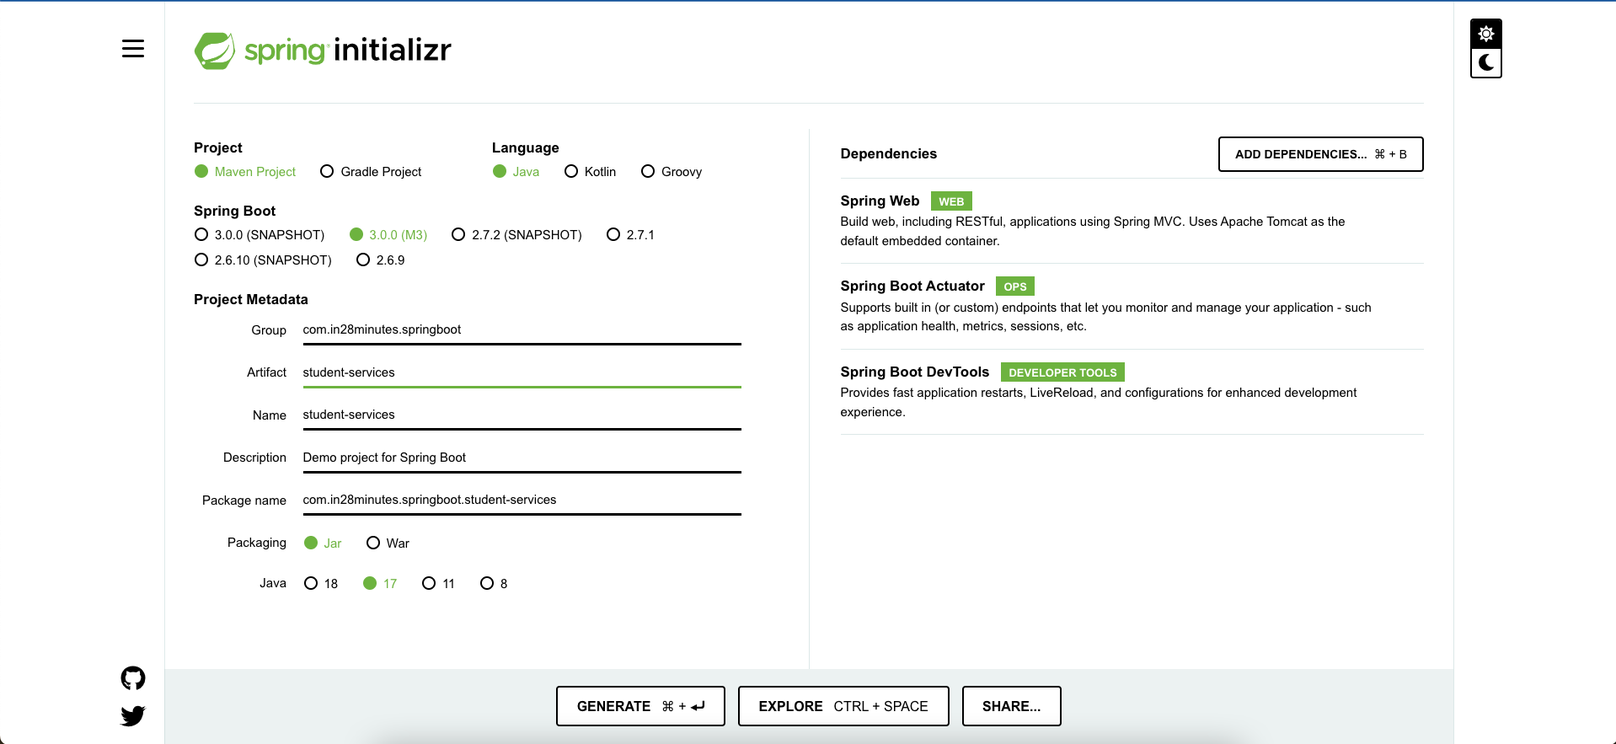
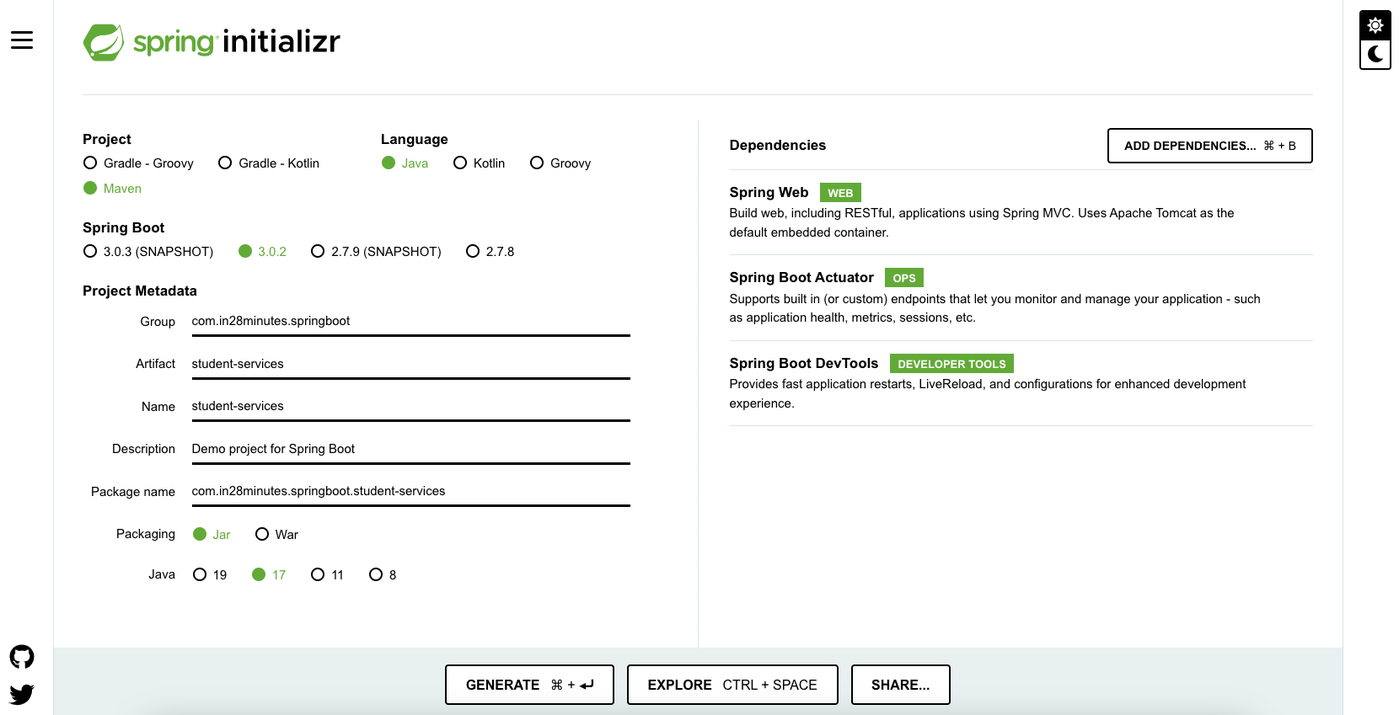
Updated to Spring Boot 3 latest

diff --git a/_blog/articles/2017-01-21-spring-initializr-web-application.md b/_blog/articles/2017-01-21-spring-initializr-web-application.md
@@ -1,8 +1,8 @@
 ---
 layout: post
 title: Spring Initializr - Bootstrap Your Spring Boot Applications at F1 speed!
-date: 2022-07-09 06:14:13
-summary: Learn what is Spring Initializr and understand how to Bootstrap a Spring Boot Web Application quickly.
+date: 2023-02-17 06:14:13
+summary: Discover what Spring Initializr is and how to rapidly Bootstrap a Spring Boot Web Application.
 categories: SpringBoot
 permalink: /spring-initialzr-bootstrap-spring-boot-applications
 image: /images/spring-boot-category.png
@@ -14,13 +14,13 @@ Spring Initializr [http://start.spring.io/](http://start.spring.io/){:target="\_
 
 ![Image](/images/Spring-Initializr-Web-ApplicationStructure.png 'Spring Initializr Web Application - Folder Structure')
 
-It allows you to create varied range of Spring Boot based Applications from a very simple UI. Some of the types of applications you can bootstrap are:
+It enables you to construct a wide range of Spring Boot-based applications using a very basic user interface. You may bootstrap the following applications:
 
 - Web Applications
 - Restful Applications
 - Batch Applications
 
-Spring Boot provides a wide range of starter projects. Spring Initializr supports all of them and more. Among a varied range of starter projects and options supported are:
+Spring Boot offers a diverse set of beginning projects. Spring Initializr is compatible with all of them and more. Among the several initial projects and choices available are:
 
 - spring-boot-starter-web-services : For building applications exposing SOAP Web Services
 - spring-boot-starter-web - Build Web applications & RESTful applications
@@ -36,7 +36,7 @@ In this guide, lets consider creating a simple web application with Spring Initi
 
 ## Bootstrapping a Web application with Spring Initializr
 
-Creating a Web application with Spring Initializr is very simple.
+It is quite simple to create a Web application with Spring Initializr.
 
 ![Image](/images/Spring-Initializr-Web.png 'Web, Actuator and Developer Tools')
 
@@ -50,18 +50,18 @@ As shown in the image above, following steps have to be done
 - Click Generate Project button at the bottom of the page.
 - Import the project into Eclipse or IntelliJ
 
-## Structure of the project created
+## The project's structure was established.
 
-Screenshot shows the project structure of the imported maven project.
+The imported maven project's project structure is shown in the screenshot.
 
 ![Image](/images/Spring-Initializr-Web-ApplicationStructure.png 'Spring Initializr Web Application - Folder Structure')
 
-- StudentServicesApplication.java - Spring Boot Launcher. Initializes Spring Boot Auto Configuration and Spring Application Context.
+- StudentServicesApplication.java - Launcher for Spring Boot. Spring Boot Auto Configuration and Spring Application Context are both initialised.
 - application.properties - Application Configuration file.
 - StudentServicesApplicationTests.java - Simple launcher for use in unit tests.
-- pom.xml - Included dependencies for Spring Boot Starter Web, Actuator, DevTools. Uses Spring Boot Starter Parent as parent pom.
+- pom.xml - Spring Boot Starter Web, Actuator, and DevTools requirements are included. Spring Boot Starting Parent is used as the parent pom.
 
-## Complete Code Generated
+## Completely Created Code
 
 Lets look at each of the file that is generated
 
@@ -93,7 +93,7 @@ Three important things that are configured in pom.xml.
 	<parent>
 		<groupId>org.springframework.boot</groupId>
 		<artifactId>spring-boot-starter-parent</artifactId>
-		<version>3.0.0-M3</version>
+		<version>3.0.2</version>
 		<relativePath /> <!-- lookup parent from repository -->
 	</parent>
 
@@ -161,8 +161,8 @@ Three important things that are configured in pom.xml.
 
 ### /src/main/java/com/in28minutes/springboot/StudentServicesApplication.java
 
-- `@SpringBootApplication` - Initializes Spring Boot Auto Configuration and Spring application context. Read more about Auto Configuration here - [http://www.springboottutorial.com/spring-boot-auto-configuration](http://www.springboottutorial.com/spring-boot-auto-configuration).
-- `SpringApplication.run` - Static method to launch a Spring Boot Application.
+- `@SpringBootApplication` - Spring Boot Auto Configuration and the Spring application context are both initialised. Further information about Auto Configuration may be found here - [http://www.springboottutorial.com/spring-boot-auto-configuration](http://www.springboottutorial.com/spring-boot-auto-configuration).
+- `SpringApplication.run` - Launch a Spring Boot application using a static method.
 
 ```java
 package com.in28minutes.springboot.studentservices;
@@ -191,7 +191,7 @@ public class StudentServicesApplication {
 
 ### /src/test/java/com/in28minutes/springboot/StudentServicesApplicationTests.java
 
-- Integration test launches the complete Spring Boot Application. Read more about integration tests here - [http://www.springboottutorial.com/integration-testing-for-spring-boot-rest-services](http://www.springboottutorial.com/integration-testing-for-spring-boot-rest-services).
+- The integration test starts the entire Spring Boot application. Further information on integration testing may be found here - [http://www.springboottutorial.com/integration-testing-for-spring-boot-rest-services](http://www.springboottutorial.com/integration-testing-for-spring-boot-rest-services).
 
 ```java
 package com.in28minutes.springboot.studentservices;
@@ -214,7 +214,7 @@ public class StudentServicesApplicationTests {
 
 ## Running the application
 
-Following log is generate when you run StudentServicesApplication.java as a Java Application.
+When you execute StudentServicesApplication.java as a Java application, the following log is generated.
 
 ```
 
@@ -224,19 +224,19 @@ Following log is generate when you run StudentServicesApplication.java as a Java
  \\/  ___)| |_)| | | | | || (_| |  ) ) ) )
   '  |____| .__|_| |_|_| |_\__, | / / / /
  =========|_|==============|___/=/_/_/_/
- :: Spring Boot ::             (v3.0.0-M3)
+ :: Spring Boot ::             (v3.0.2)
 
-2022-07-09T07:31:11.653+05:30  INFO 6649 --- [  restartedMain] c.i.s.s.StudentServicesApplication       : Starting StudentServicesApplication using Java 17.0.2 on Puneeths-MacBook-Pro.local with PID 6649 (/Users/puneethsai/devworkspace/student-services/target/classes started by puneethsai in /Users/puneethsai/devworkspace/student-services)
-2022-07-09T07:31:11.657+05:30  INFO 6649 --- [  restartedMain] c.i.s.s.StudentServicesApplication       : No active profile set, falling back to 1 default profile: "default"
-2022-07-09T07:31:11.718+05:30  INFO 6649 --- [  restartedMain] .e.DevToolsPropertyDefaultsPostProcessor : Devtools property defaults active! Set 'spring.devtools.add-properties' to 'false' to disable
-2022-07-09T07:31:11.718+05:30  INFO 6649 --- [  restartedMain] .e.DevToolsPropertyDefaultsPostProcessor : For additional web related logging consider setting the 'logging.level.web' property to 'DEBUG'
-2022-07-09T07:31:13.249+05:30  INFO 6649 --- [  restartedMain] o.s.b.w.embedded.tomcat.TomcatWebServer  : Tomcat initialized with port(s): 8080 (http)
-2022-07-09T07:31:13.263+05:30  INFO 6649 --- [  restartedMain] o.apache.catalina.core.StandardService   : Starting service [Tomcat]
-2022-07-09T07:31:13.263+05:30  INFO 6649 --- [  restartedMain] org.apache.catalina.core.StandardEngine  : Starting Servlet engine: [Apache Tomcat/10.0.21]
-2022-07-09T07:31:13.326+05:30  INFO 6649 --- [  restartedMain] o.a.c.c.C.[Tomcat].[localhost].[/]       : Initializing Spring embedded WebApplicationContext
-2022-07-09T07:31:13.329+05:30  INFO 6649 --- [  restartedMain] w.s.c.ServletWebServerApplicationContext : Root WebApplicationContext: initialization completed in 1607 ms
-2022-07-09T07:31:13.977+05:30  INFO 6649 --- [  restartedMain] o.s.b.d.a.OptionalLiveReloadServer       : LiveReload server is running on port 35729
-2022-07-09T07:31:13.984+05:30  INFO 6649 --- [  restartedMain] o.s.b.a.e.web.EndpointLinksResolver      : Exposing 1 endpoint(s) beneath base path '/actuator'
-2022-07-09T07:31:14.031+05:30  INFO 6649 --- [  restartedMain] o.s.b.w.embedded.tomcat.TomcatWebServer  : Tomcat started on port(s): 8080 (http) with context path ''
-2022-07-09T07:31:14.045+05:30  INFO 6649 --- [  restartedMain] c.i.s.s.StudentServicesApplication       : Started StudentServicesApplication in 3.168 seconds (process running for 4.02
+2023-02-18T07:31:11.653+05:30  INFO 6649 --- [  restartedMain] c.i.s.s.StudentServicesApplication       : Starting StudentServicesApplication using Java 17.0.2 on Puneeths-MacBook-Pro.local with PID 6649 (/Users/puneethsai/devworkspace/student-services/target/classes started by puneethsai in /Users/puneethsai/devworkspace/student-services)
+2023-02-18T07:31:11.657+05:30  INFO 6649 --- [  restartedMain] c.i.s.s.StudentServicesApplication       : No active profile set, falling back to 1 default profile: "default"
+2023-02-18T07:31:11.718+05:30  INFO 6649 --- [  restartedMain] .e.DevToolsPropertyDefaultsPostProcessor : Devtools property defaults active! Set 'spring.devtools.add-properties' to 'false' to disable
+2023-02-18T07:31:11.718+05:30  INFO 6649 --- [  restartedMain] .e.DevToolsPropertyDefaultsPostProcessor : For additional web related logging consider setting the 'logging.level.web' property to 'DEBUG'
+2023-02-18T07:31:13.249+05:30  INFO 6649 --- [  restartedMain] o.s.b.w.embedded.tomcat.TomcatWebServer  : Tomcat initialized with port(s): 8080 (http)
+2023-02-18T07:31:13.263+05:30  INFO 6649 --- [  restartedMain] o.apache.catalina.core.StandardService   : Starting service [Tomcat]
+2023-02-18T07:31:13.263+05:30  INFO 6649 --- [  restartedMain] org.apache.catalina.core.StandardEngine  : Starting Servlet engine: [Apache Tomcat/10.0.21]
+2023-02-18T07:31:13.326+05:30  INFO 6649 --- [  restartedMain] o.a.c.c.C.[Tomcat].[localhost].[/]       : Initializing Spring embedded WebApplicationContext
+2023-02-18T07:31:13.329+05:30  INFO 6649 --- [  restartedMain] w.s.c.ServletWebServerApplicationContext : Root WebApplicationContext: initialization completed in 1607 ms
+2023-02-18T07:31:13.977+05:30  INFO 6649 --- [  restartedMain] o.s.b.d.a.OptionalLiveReloadServer       : LiveReload server is running on port 35729
+2023-02-18T07:31:13.984+05:30  INFO 6649 --- [  restartedMain] o.s.b.a.e.web.EndpointLinksResolver      : Exposing 1 endpoint(s) beneath base path '/actuator'
+2023-02-18T07:31:14.031+05:30  INFO 6649 --- [  restartedMain] o.s.b.w.embedded.tomcat.TomcatWebServer  : Tomcat started on port(s): 8080 (http) with context path ''
+2023-02-18T07:31:14.045+05:30  INFO 6649 --- [  restartedMain] c.i.s.s.StudentServicesApplication       : Started StudentServicesApplication in 3.168 seconds (process running for 4.02
 ```

diff --git a/_blog/articles/2017-01-28-spring-boot-unit-testing-with-junit-top20.md b/_blog/articles/2017-01-28-spring-boot-unit-testing-with-junit-top20.md
@@ -1,14 +1,14 @@
 ---
 layout:     post
 title:      Unit Testing Rest Services with Spring Boot and JUnit
-date:       2022-07-10 12:31:19
-summary:    Setting up a Basic REST Service with Spring Boot is a cake walk. We will go one step further and add great unit tests to our RESTful Service.
+date:       2023-02-17 12:31:19
+summary:    It's a piece of cake to set up a basic REST service with Spring Boot. We'll take it a step further and add excellent unit tests to our RESTful Service.
 categories:  SpringBootUnitTesting
 permalink:  /unit-testing-for-spring-boot-rest-services
 image: /images/unit-test-category.png
 ---
 
-This guide will help you write great unit tests for your Spring Boot Rest Service. We will use a simple code example creating couple of simple rest services. 
+This article will assist you in writing excellent unit tests for your Spring Boot Rest Service. We will create a few of basic rest services using a simple code sample.
 
 ![Image](/images/SpringBootRestService-ProjectStructure.png "Spring Boot Rest Services - Project Structure")
  
@@ -20,10 +20,9 @@ This guide will help you write great unit tests for your Spring Boot Rest Servic
 - How to write a unit test for POST Service?
 
 
-
 ## Tools you will need
 - Maven 3.0+ is your build tool
-- Your favorite IDE. We use Eclipse.
+- Your favorite IDE. We use Eclipse or IntellIJ.
 - JDK 17
 
 ## Complete Maven Project With Code Examples
@@ -39,14 +38,14 @@ Following screenshot shows eclipse project with all the files we will create.
 
 ![Image](/images/SpringBootRestService-ProjectStructure.png "Spring Boot Rest Services - Project Structure")
 
-We want to create a unit test for `StudentController` which is a Rest Controller. `StudentController` exposes two service methods - one Get and one Post. We will write unit tests for both these service methods. 
+We want to write a unit test for the 'StudentController' Rest Controller. The 'StudentController' class offers two service methods: Get and Post. Unit tests will be written for both of these service methods.
 
 In the unit test
 
 - We will mock out the StudentService using Mockito
 - We will use Mock MVC framework to launch only StudentController. 
 
-A key part of unit testing is to restrict the scope to a minimum. In this unit test, we want to test only the methods in `StudentController`.
+A critical component of unit testing is keeping the scope as small as possible. We only want to test the methods in 'StudentController' in this unit test.
 
 ## Overview
 
@@ -58,7 +57,7 @@ Following is the order we do things in this guide:
 - Unit Test the API.
 
 ## Bootstrap REST Services Application with Spring Initializr
-> Spring Initializr [http://start.spring.io/](http://start.spring.io/){:target="_blank"} is great tool to bootstrap your Spring Boot projects.
+> Spring Initializr [http://start.spring.io/](http://start.spring.io/){:target="\_blank"} is great tool to bootstrap your Spring Boot projects.
 
 ![Image](/images/Spring-Initializr-Web.png "Web, Actuator and Developer Tools")   
 
@@ -75,11 +74,11 @@ As shown in the image above, following steps have to be done
 - Import the project into Eclipse.
 - If you want to understand all the files that are part of this project, you can go here.
 
-## Implementing Business Service for your Application
+## Adding Business Services to Your Application
 
-All applications need data. Instead of talking to a real database, we will use an `ArrayList` - kind of an in-memory data store.
+Data is required by all apps. Instead of a true database, we'll utilise an `ArrayList`, which is similar to an in-memory data store.
 
-A student can take multiple courses. A course has an id, name, description and a list of steps you need to complete to finish the course. A student has an id, name, description and a list of courses he/she is currently registered for. We have StudentService exposing methods to 
+A student may enrol in many courses. A course contains an id, a name, a description, and a set of actions that must be completed in order to complete the course. A student has an id, a name, a description, and a list of courses for which he or she is presently registered. StudentService is exposing methods to us.
 
 - `public List<Student> retrieveAllStudents()` - Retrieve details for all students
 - `public Student retrieveStudent(String studentId)` - Retrieve a specific student details
@@ -87,7 +86,7 @@ A student can take multiple courses. A course has an id, name, description and a
 - `public Course retrieveCourse(String studentId, String courseId)` - Retrieve details of a specific course a student is registered for
 - `public Course addCourse(String studentId, Course course)` - Add a course to an existing student
 
- Refer to these files at the bottom of the article for exact implementation of the Service `StudentService` and the model classes `Course` and `Student`. 
+The precise implementation of the Service 'StudentService' and the model classes 'Course' and 'Student' may be seen at the bottom of this article.
 
 - src/main/java/com/in28minutes/springboot/model/Course.java
 - src/main/java/com/in28minutes/springboot/model/Student.java
@@ -170,14 +169,14 @@ Below picture shows how we can execute this Get Operation from Postman - my favo
 
 ## Unit Testing Http Get Operation
 
-When we are unit testing a rest service, we would want to launch only the specific controller and the related MVC Components. WebMvcTest annotation is used for unit testing Spring MVC application. This can be used when a test focuses only Spring MVC components. Using this annotation will disable full auto-configuration and only apply configuration relevant to MVC tests. 
+While unit testing a rest service, we want to launch only the relevant controller and the associated MVC Components. The annotation WebMvcTest is used to unit test the Spring MVC application. This is useful when a test exclusively focuses on Spring MVC components. When this annotation is used, complete auto-configuration is disabled and just configuration relevant to MVC tests is used. 
 
-- `@ExtendWith(SpringExtension.class)` : `@ExtendWith` is a repeatable annotation that is used to register extensions for the annotated test class, test interface/method/parameter/field. Annotated parameters are supported in test class constructors, in test methods, and in @BeforeAll, @BeforeEach, @AfterAll, and @AfterEach.
+- `@ExtendWith(SpringExtension.class)` : `@ExtendWith` is a repeating annotation for registering extensions for the annotated test class, test interface/method/parameter/field. Test class constructors, test methods, and @BeforeAll, @BeforeEach, @AfterAll, and @AfterEach all allow annotated arguments.
 `SpringExtension` integrates the Spring TestContext Framework into JUnit 5's Jupiter programming model.
-- `@WebMvcTest(value = StudentController.class)`: WebMvcTest annotation is used for unit testing Spring MVC application. This can be used when a test focuses only Spring MVC components. In this test, we want to launch only StudentController. All other controllers and mappings will not be launched when this unit test is executed. 
-- `@Autowired private MockMvc mockMvc`: MockMvc is the main entry point for server-side Spring MVC test support. It allows us to execute requests against the test context.
-- `@MockBean private StudentService studentService`: MockBean is used to add mocks to a Spring ApplicationContext. A mock of studentService is created and auto-wired into the StudentController.
-- `Mockito.when(studentService.retrieveCourse(Mockito.anyString(),Mockito.anyString())).thenReturn(mockCourse)`: Mocking the method retrieveCourse to return the specific mockCourse when invoked.
+- `@WebMvcTest(value = StudentController.class)`: The annotation WebMvcTest is used to unit test the Spring MVC application. This is useful when a test exclusively focuses on Spring MVC components. In this test, we simply want to run StudentController. While this unit test is run, no other controllers or mappings will be started.
+- `@Autowired private MockMvc mockMvc`: MockMvc is the primary point of entry for server-side Spring MVC test support. It enables us to run commands against the test context.
+- `@MockBean private StudentService studentService`: MockBeans are used to populate a Spring ApplicationContext with mocks. A studentService fake is constructed and auto-wired into the StudentController.
+- `Mockito.when(studentService.retrieveCourse(Mockito.anyString(),Mockito.anyString())).thenReturn(mockCourse)`:When called, the method retrieveCourse is mocked to return the particular mockCourse.
 - `MockMvcRequestBuilders.get("/students/Student1/courses/Course1").accept(MediaType.APPLICATION_JSON)`: Creating a Request builder to be able to execute a get request to uri "/students/Student1/courses/Course1" with accept header as "application/json"
 - `mockMvc.perform(requestBuilder).andReturn()`: mockMvc is used to perform the request and return the response back.
 - `JSONAssert.assertEquals(expected, result.getResponse().getContentAsString(), false)`: We are using org.skyscreamer.jsonassert.JSONAssert. This allows us to do partial asserts against a JSON String. We are passing strict as false since we do not want to check for all fields in the response.
@@ -276,7 +275,7 @@ A Http POST Operation should return a status of created (201) when the resource 
 
 ## Executing the Http POST Operation
 
-Example request is shown below. It contains all the details to register a course to a student. 
+An example request is shown below. It provides all of the information needed to enrol a student for a course.
 ```json
 {
   "name": "Microservices",
@@ -289,7 +288,7 @@ Example request is shown below. It contains all the details to register a course
 }
 ```
 
-The below picture shows how we can execute this Http POST Operation from Postman - my favorite tool to run rest services. Make sure you go to the Body tab and select raw. Select JSON from the dropdown. Copy above request into body.
+The image below demonstrates how we may do this Http POST Operation with Postman, my preferred tool for running rest services. Make sure you choose raw under the Body tab. Choose JSON from the dropdown menu. Copy and paste the above request into the body.
 
 The URL we use is http://localhost:8080/students/Student1/courses.
 

diff --git a/_blog/articles/2017-01-29-spring-boot-autoconfiguration-top20.md b/_blog/articles/2017-01-29-spring-boot-autoconfiguration-top20.md
@@ -1,7 +1,7 @@
 ---
 layout:     post
 title:      What is Spring Boot Auto Configuration?
-date:       2022-07-10 12:31:19
+date:       2023-02-17 12:31:19
 summary:    Auto Configuration is the most important feature in Spring Boot. In this tutorial, we will learn important concepts about Auto Configuration with a couple of examples. 
 categories:  SpringBoot
 permalink:  /spring-boot-auto-configuration
@@ -10,21 +10,17 @@ image: /images/spring-framework-category.png
 
 ![Image](/images/Spring-Initializr-Web.png "Web, Actuator and Developer Tools")   
 
-This guide will help you understand Spring Boot Auto Configuration with examples. We will use a simple code example creating couple of simple rest services. 
+Through examples, this book will help you grasp Spring Boot Auto Configuration. We will create a few of basic rest services using a simple code sample. 
 
 ![Image](/images/spring-boot-autoconfigure-jar.png "Spring Boot Auto Configure Jar")
 
 
-
- 
 ## You will learn
 - Why do we need Auto Configuration?
 - What is Auto Configuration?
 - A few examples of Spring Boot Auto Configuration
 - How is Auto Configuration implemented in Spring Boot?
 - How to debug Auto Configuration?
-
-
 
 ## Tools you will need
 - Maven 3.0+ is your build tool
@@ -41,7 +37,7 @@ This guide will help you understand Spring Boot Auto Configuration with examples
 
 Spring based applications have a lot of configuration. 
 
-When we use Spring MVC, we need to configure component scan, Dispatcher Servlet, a view resolver, web jars(for delivering static content) among other things.
+Spring MVC requires us to configure component scan, Dispatcher Servlet, a view resolver, and web jars (for serving static content), among other things.
 
 ```xml
   <bean
@@ -58,7 +54,7 @@ When we use Spring MVC, we need to configure component scan, Dispatcher Servlet,
     
 ```
 
-Below code snippet shows typical configuration of a Dispatcher Servlet in a web application.
+A common configuration of a Dispatcher Servlet in a web application is shown in the code snippet below.
 
 ```xml
     <servlet>
@@ -79,7 +75,7 @@ Below code snippet shows typical configuration of a Dispatcher Servlet in a web 
     </servlet-mapping>
 ```
   
-When we use Hibernate/JPA, we would need to configure a data source, an entity manager factory, a transaction manager among a host of other things. 
+While using Hibernate/JPA, we must establish a data source, an entity management factory, and a transaction manager, among other things. 
 
 ```xml
     <bean id="dataSource" class="com.mchange.v2.c3p0.ComboPooledDataSource"
@@ -111,7 +107,7 @@ When we use Hibernate/JPA, we would need to configure a data source, an entity m
 
 ``` 
 
-Above examples are typical with any Spring framework implementation or integration with other frameworks.
+The examples presented here are typical of any Spring framework installation or interface with other frameworks.
 
 ## Spring Boot : Can we think different?
 
@@ -124,7 +120,7 @@ Spring Boot brings in new thought process around this.
 
 There would be provisions to override the default auto configuration. 
 
-> Spring Boot looks at a) Frameworks available on the CLASSPATH b) Existing configuration for the application. Based on these, Spring Boot provides basic configuration needed to configure the application with these frameworks. This is called `Auto Configuration`.  
+> Spring Boot examines a) Frameworks in the CLASSPATH b) The application's current settings. Spring Boot offers the fundamental settings required to configure the application with these frameworks based on these. This is known as 'Auto Configuration'. 
 
 To understand Auto Configuration further, lets bootstrap a simple Spring Boot Application using Spring Initializr.
 
@@ -162,17 +158,17 @@ Mapped URL path [/webjars/**] onto handler of type [class org.springframework.we
 
 Above log statements are good examples of `Spring Boot Auto Configuration` in action. 
 
-As soon as we added in the Spring Boot Starter Web as a dependency in our project, Spring Boot Autoconfiguration sees that Spring MVC is on the classpath. It autoconfigures dispatcherServlet, a default error page and webjars.
+Spring Boot Autoconfiguration detects that Spring MVC is on the classpath as soon as we include Spring Boot Starter Web as a dependency in our project. It configures dispatcherServlet, a default error page, and webjars automatically.
 
-If you add Spring Boot Data JPA Starter, you will see that Spring Boot Auto Configuration auto configures a datasource and an Entity Manager. 
+When you add Spring Boot Data JPA Starter, you'll see that Spring Boot Auto Configuration creates a datasource and an Entity Manager for you.
 
 ## Where is Spring Boot Auto Configuration implemented?
 
-All auto configuration logic is implemented in `spring-boot-autoconfigure.jar`. All auto configuration logic for mvc, data, jms and other frameworks is present in a single jar.  
+'spring-boot-autoconfigure.jar' contains all auto configuration logic. A single jar contains all auto configuration logic for mvc, data, jms, and other frameworks.  
 
 ![Image](/images/spring-boot-autoconfigure-jar.png "Spring Boot Auto Configure Jar")
 
-Other important file inside spring-boot-autoconfigure.jar is /META-INF/spring.factories. This file lists all the auto configuration classes that should be imported under the AutoConfigurationImportFilter and AutoConfigurationImportFilter key based on the dependency available in the classpath.
+/META-INF/spring.factories is another crucial file contained within spring-boot-autoconfigure.jar. This file contains a list of all the auto configuration classes that should be imported using the AutoConfigurationImportFilter and AutoConfigurationImportFilter keys, depending on the dependencies found on the classpath.
 
 ```properties
 # Auto Configuration Import Listeners
